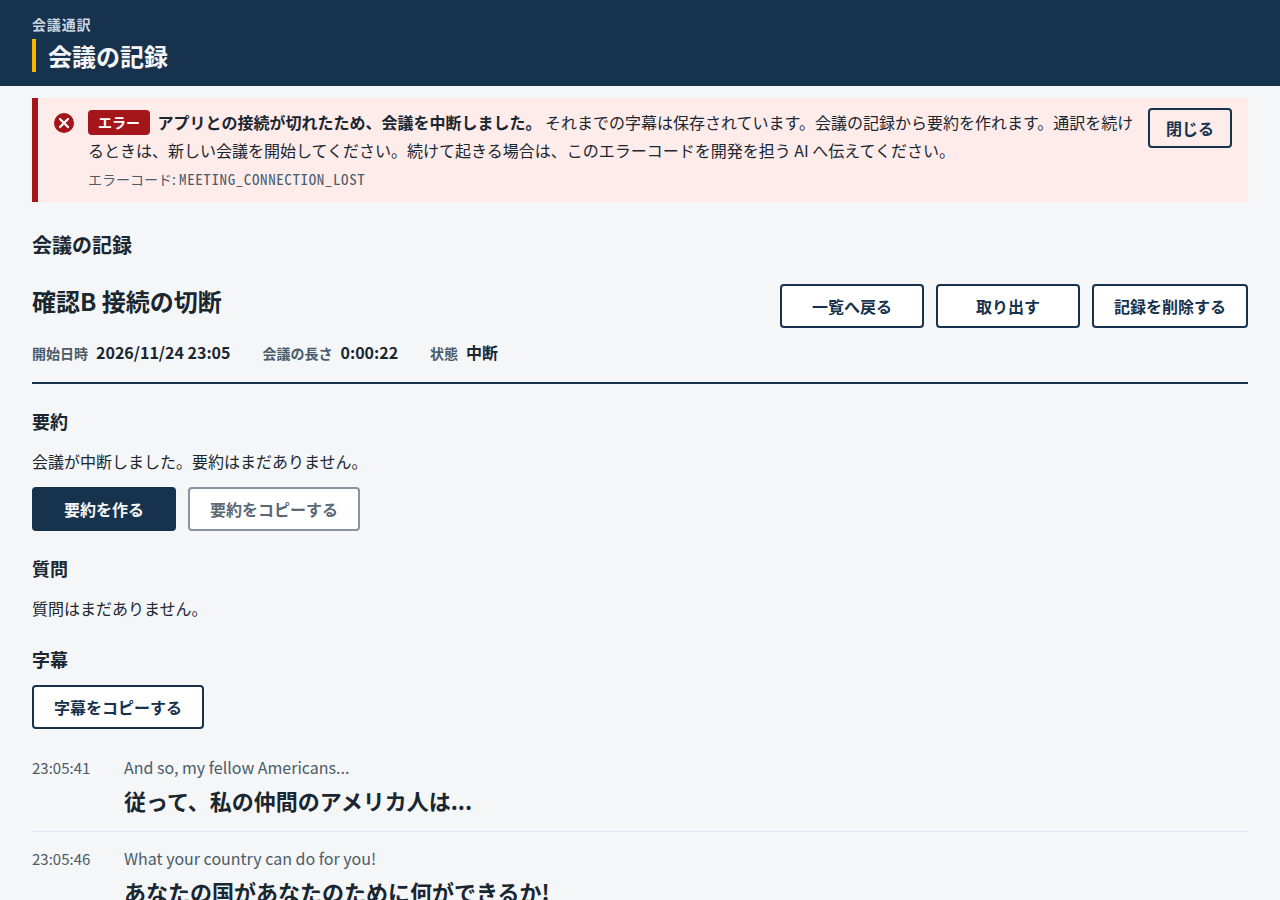
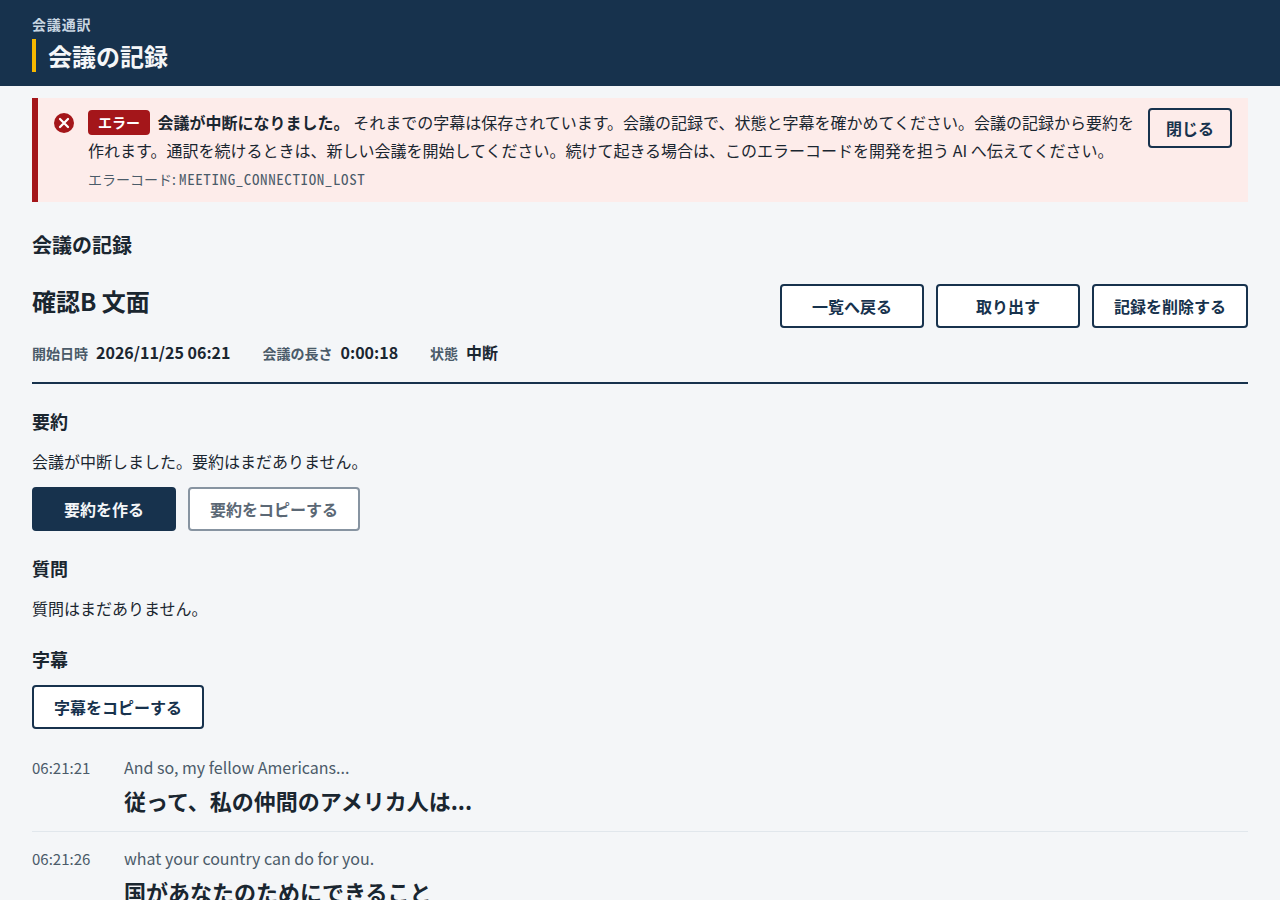
docs: 中断のお知らせの文面と、終了の失敗のお知らせの扱いを書く
errors.md と live-screen.md を、MEETING_CONNECTION_LOST の原因を
言い切らない文面と、中断で移るときに終了の失敗のお知らせを消す
動きに合わせた。今の文面で撮ったスクリーンショットに差し替えた。

diff --git a/output_system/docs/errors.md b/output_system/docs/errors.md
@@ -156,9 +156,10 @@ FastAPI が自動で返す応答も、共通の形に変えています。
 
 | コード | 分類 | 何が起きたか |
 |---|---|---|
-| `MEETING_CONNECTION_LOST` | システムエラー | アプリとの接続が切れ、会議が中断になった。中断の通知（`meeting.state_changed`）だけを受けた、つなぎ直したときに会議の記録を読むと中断だった、または、取り込みのやり直しで音声を送る接続が閉じていると分かった。それまでの字幕は保存されていて、会議の記録から要約を作れる |
+| `MEETING_CONNECTION_LOST` | システムエラー | 会議が中断になったが、画面は理由のエラーを受けていない。中断の通知（`meeting.state_changed`）だけを受けた、つなぎ直したときに会議の記録を読むと中断だった、または、取り込みのやり直しで音声を送る接続が閉じていると分かった。それまでの字幕は保存されていて、会議の記録から要約を作れる |
 
-- 通訳ワーカーを起動し直せずに中断したときは、アプリサーバーが通知する `SYSTEM_INTERPRETER_UNAVAILABLE`（下の「会議の開始と終了」）を出し、このコードは出しません。アプリサーバーは、そのエラーを、状態の変化より先に送ります。
+- 文面は「会議が中断になりました。」で、原因を言い切りません。次に行う操作として、会議の記録で状態と字幕を確かめること、通訳を続けるときは新しい会議を開始することを案内します。画面は中断の原因を知らないためです。音声を送る接続が切れたときのほか、つなぎ直したときや、接続が閉じたあとのやり直しで気づいたときは、通訳ワーカーを起動し直せなかった中断のこともあります。
+- 通訳ワーカーを起動し直せずに中断したことを画面が通知で受けたときは、アプリサーバーが通知する `SYSTEM_INTERPRETER_UNAVAILABLE`（下の「会議の開始と終了」）を出し、このコードは出しません。アプリサーバーは、そのエラーを、状態の変化より先に送ります。
 
 ### 記録のコピー（RECORD_COPY_FAILED）
 
